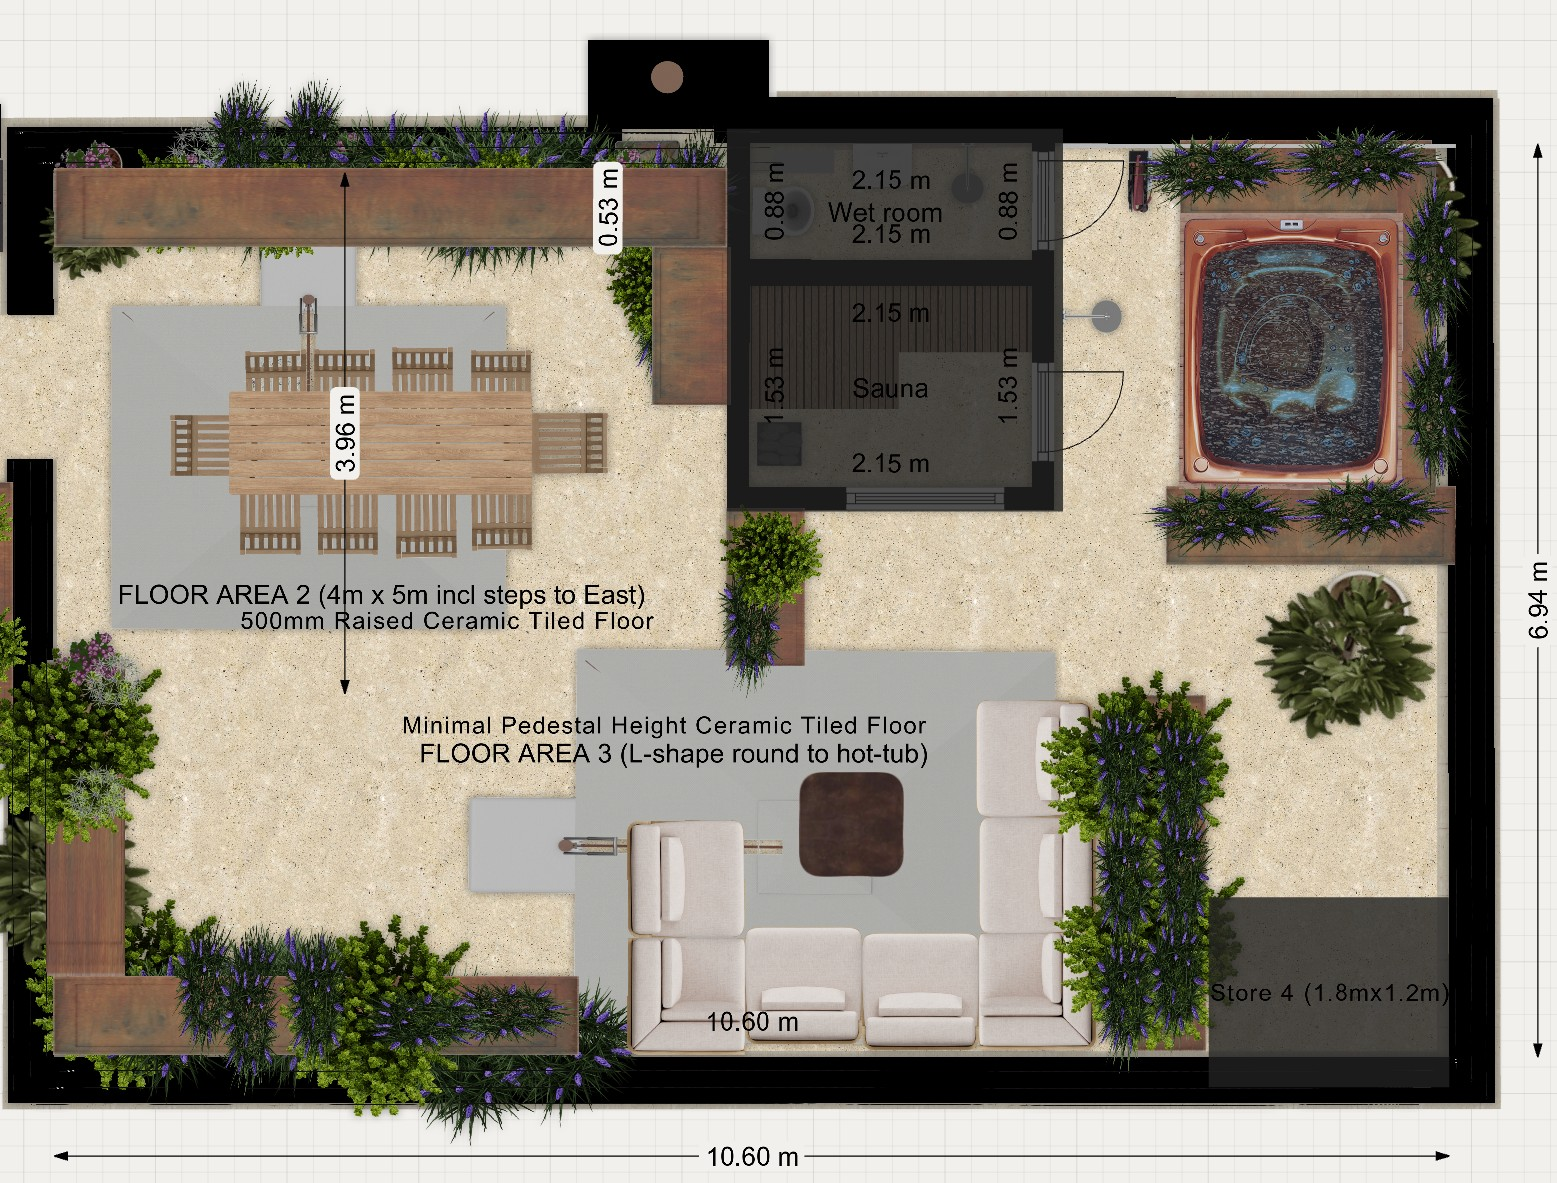
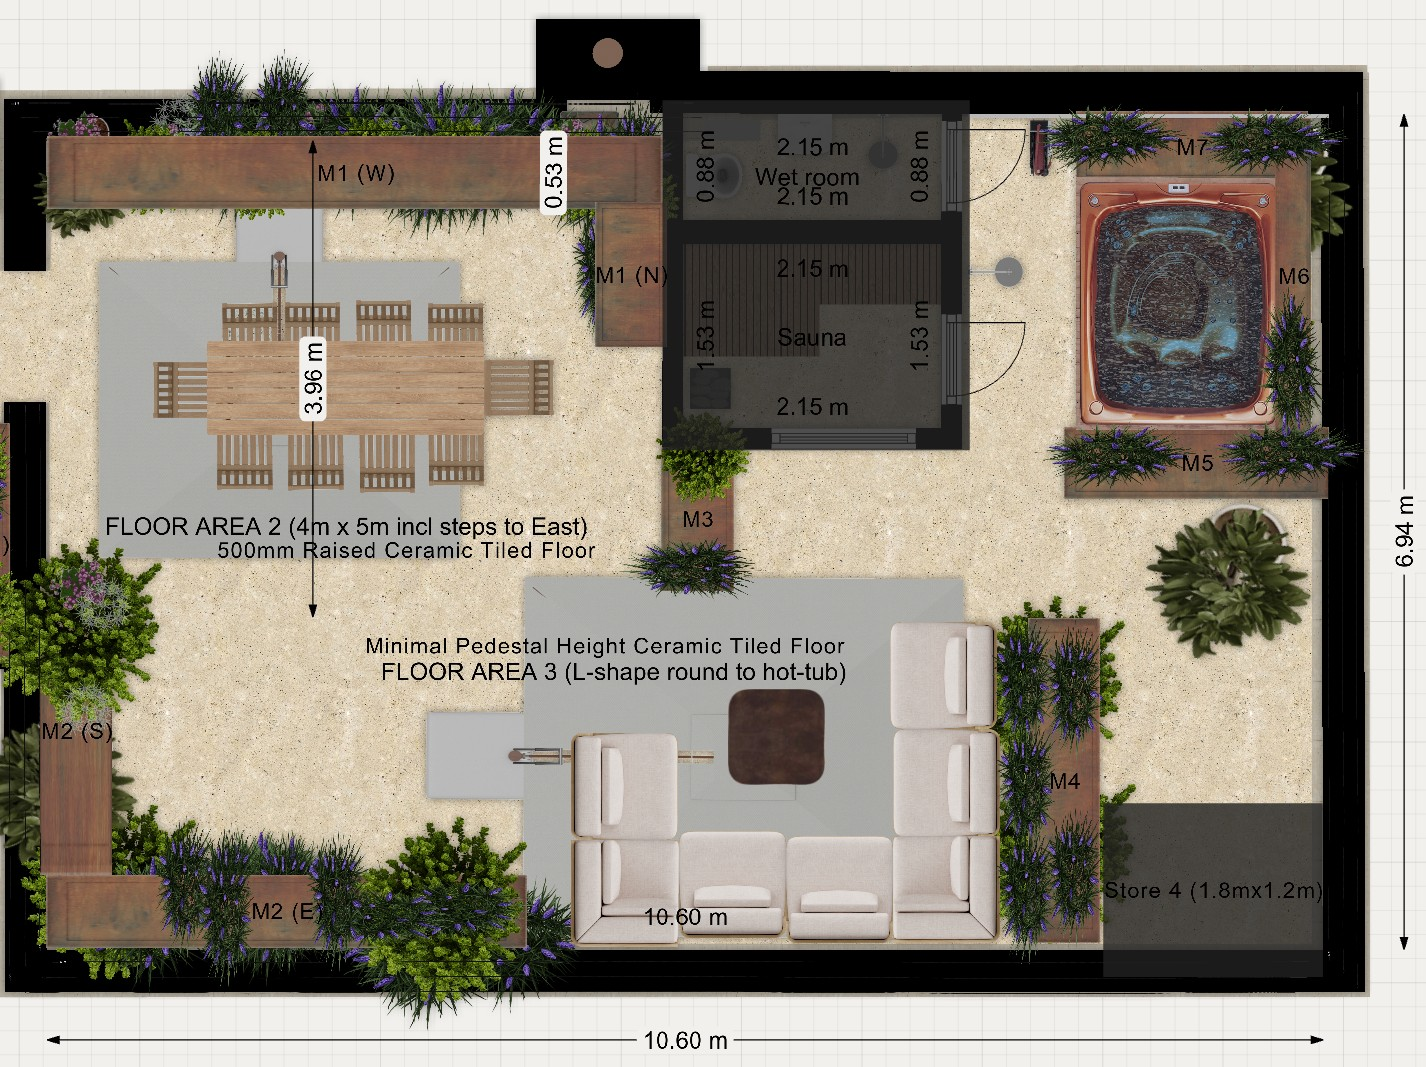
Sync Chris's planter-labelled GA drawings; embed large terrace in Part J; retire redraw overlay; clarify dining parasol base (on/below tiles, pedestal+parasol liaison)

diff --git a/roof-terrace/roof-terrace-spec.md b/roof-terrace/roof-terrace-spec.md
@@ -632,13 +632,18 @@ We've used Morton Parasols before and want to use them again, or an equivalent c
 
 ## Bases — per Morton's recommendation
 
-The heavy bases need to sit **under the porcelain tile finish**, not on top of it, so the deck build-up needs to accommodate the base. **We will ask Morton to specify their recommended base detail for both parasol sizes** (3 × 3m and 3 × 4.5m), given Brighton seafront wind exposure, and adopt their preferred fixing approach.
+The terrace is a **floating pedestal-and-tile floor** (Part I), so a heavy parasol base can go one of two ways — and the suppliers need to agree which:
+
+- **On top of the tiles** — a free-standing weighted base sitting on the tile surface, or
+- **Below the tiles** — base set into the pedestal void / fixed to the structure, with the mast passing up through a sealed sleeve in the tile.
+
+**This needs resolving for the dining-area parasol in particular** (over the raised FA2, where the pedestal void is deep — ~500mm). Because the base is heavy and the floor is a floating pedestal system, **the pedestal supplier (Buzon / Eterno Ivica — Part I) and the parasol supplier (Morton) must liaise to agree the detail** — load transfer down to the pedestals/structure, recess depth, mast penetration and wind-uplift anchorage. **We'll ask Morton to specify their recommended base for both sizes** (3 × 3m and 3 × 4.5m) at Brighton seafront wind exposure, and coordinate it with the pedestal layout.
 
 The mast itself is removable so the surface detail can be capped flush when the parasol is taken down for winter.
 
 ## What we'd value your steer on
 
-- **Coordination of Morton's recommended base detail** with the deck build-up — once Morton has specified, Ronan to confirm the base can be set in cleanly without compromising the tanking, falls or insulation
+- **On-top-vs-below decision + pedestal/parasol liaison** — agree whether each base (especially the **dining parasol**) sits on the tiles or in the pedestal void, between Morton and the pedestal supplier; then Ronan to confirm the chosen detail works with the build-up (falls, tanking, load path)
 - **Wind uplift loads** — a 3 × 4.5m parasol at full Brighton seafront wind exposure is a serious load; structural sign-off on the deck and base anchorage capacity, even with the parasol furled
 - **Sleeve / cup detail at the tile surface** — how the mast passes through the tile, weather-sealed, and capped when removed
 
@@ -707,7 +712,7 @@ We've chosen frameless structural glass throughout for both locations — keeps 
 
 **The lift bulkhead is tiled over** (concealing the structure), with the tiling adding **as little extra area as possible beyond the existing bulkhead footprint** — i.e. tile the bulkhead itself, don't spread a tiled apron around it. The **N4 planter (Part J) then matches that tiled bulkhead footprint exactly** and sits on top. So the bulkhead area is part of the tiled field and is **not** subtracted.
 
-Planters are **not** subtracted — they are built on top of the finished tiles (4 June meeting). This includes the **N4 lift-over-run planter**, which sits on top of the tiled bulkhead. Movable pots also sit on the tile finish. Parasol bases are recessed cassettes with tile running over the top (Part G), so not subtracted.
+Planters are **not** subtracted — they are built on top of the finished tiles (4 June meeting). This includes the **N4 lift-over-run planter**, which sits on top of the tiled bulkhead. Movable pots also sit on the tile finish. Parasol bases — whether set in the pedestal void (mast through a sealed tile sleeve) or as a weighted base on top of the tiles — are not subtracted; the on-top-vs-below detail is to be agreed between the pedestal and parasol suppliers (see the load-bearing note above and Part G).
 
 > **Note for the surveyor:** these figures are derived from the Part J planter inventory and Part D/O/P footprints in this spec. **Please remeasure precisely against the latest drawings before contractors price the tile order** — small footprint changes (e.g. final hot tub model, kitchen module widths, planter realignments) shift the figure by several m². A 10–15% overage is to be ordered on top of the verified net area and stored in the client's garage at Sussex Square for future repairs.
 
@@ -734,11 +739,12 @@ Adjustable pedestal system with self-levelling head and integrated rubber acoust
 
 **Preferred systems:** Buzon DPH with rubber shims, or Eterno Ivica SE range. Either acceptable. Builder may source either subject to confirming spec compliance.
 
-> **⚠ Load-bearing — planters and hot tub: detail to the pedestal manufacturer's recommendations.** Two concentrated loads sit on the pedestal-and-tile field and **must not point-load a tile mid-span**:
+> **⚠ Load-bearing — planters, hot tub and parasol bases: detail to the pedestal manufacturer's recommendations.** These concentrated loads sit on the pedestal-and-tile field and **must not point-load a tile mid-span**:
 > - **Planters** (Part J) — ~250–350 kg/m² saturated, sitting on bearers on top of the tiles
 > - **Hot tub** (Part D) — ~1,160–1,280 kg over ~3.2 m² ≈ **~360–400 kg/m²**
+> - **Parasol bases** (Part G) — heavy, and able to sit **either on top of the tiles or in the pedestal void**. The **dining-area parasol** in particular (on the raised FA2) needs the **pedestal supplier and the parasol supplier (Morton) to liaise** on whether the base sits on or below the tiles, how the load and wind-uplift are carried, and the mast penetration through the tile.
 >
-> Their support is to be designed **per the pedestal manufacturer's (Buzon / Eterno Ivica) published load tables and technical guidance** — closer-spaced/extra pedestals on the load lines, the correct head/base rating, and load spread so the path is bearer → tile-over-pedestal → pedestal → Protectoboard → deck. **Issue the planter footprints (Part J) and the final hot-tub footprint (Part D) to the pedestal supplier and the SE before the pedestal grid is set out.** The hot tub may instead warrant a continuous load-spreading base — confirm with the pedestal supplier / SE which approach they recommend.
+> Their support is to be designed **per the pedestal manufacturer's (Buzon / Eterno Ivica) published load tables and technical guidance** — closer-spaced/extra pedestals on the load lines, the correct head/base rating, and load spread so the path is bearer → tile-over-pedestal → pedestal → Protectoboard → deck. **Issue the planter footprints (Part J), the final hot-tub footprint (Part D) and the parasol base positions (Part G) to the pedestal supplier and the SE before the pedestal grid is set out.** The hot tub may instead warrant a continuous load-spreading base — confirm with the pedestal supplier / SE which approach they recommend.
 
 ## Acoustic isolation — zoned by sensitivity of space below
 
@@ -863,6 +869,10 @@ The existing decking boards have decking bolts with large through-holes every 80
 | Plus: faster build (no marine ply box joinery), uses salvaged stock more fully (battens / hidden uses for holed scraps), Brighton pier wood as cap adds character at zero cost |
 
 ## Sizes — planter inventory
+
+**Main-section planter layout** (planters labelled on the drawing — cross-reference with the table below; the full terrace incl. the narrow-section planters N1–N4 is in the [Drawings](#drawings) section):
+
+![Main section planter layout](drawings/large-terrace-5-6-26.jpg)
 
 > **Compass orientation:** RIGHT=N, LEFT=S, TOP=W, BOTTOM=E on the floorplan.
 
@@ -1343,9 +1353,9 @@ The full list with sizes, growth rate, biodiversity notes and images is in **[`p
 
 The planting has been designed to provide **wind defence on the north and east parapets** (the principal wind directions to defend against) while **preserving the east view to the Downs from the hot tub**. The plan deliberately leans on species already in the Sussex Square palette — no new species added.
 
-**Companion drawing:** [`drawings/windbreak-planting-plan-6-6-26.png`](drawings/windbreak-planting-plan-6-6-26.png) — to-scale schematic showing each planter and proposed plants (v10, 6 June: 4 stores, N4 herb planter, reordered kitchen).
+**Companion drawing:** the planters are now labelled (N1–N4, M1–M7) directly on the GA drawings — full terrace below, and the main-section close-up by the table in [Part J](#part-j--planters). Cross-reference the codes with the per-planter plant lists in this Part.
 
-![Windbreak planting plan schematic](drawings/windbreak-planting-plan-6-6-26.png)
+![Full terrace — planters labelled N1–N4, M1–M7](drawings/full-terrace-5-6-26.jpg)
 
 ### Design principles
 